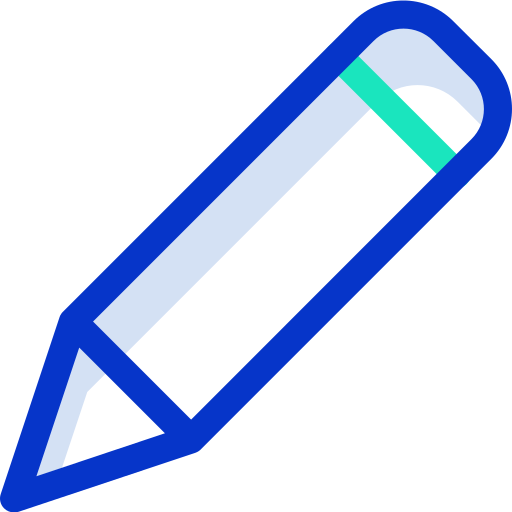
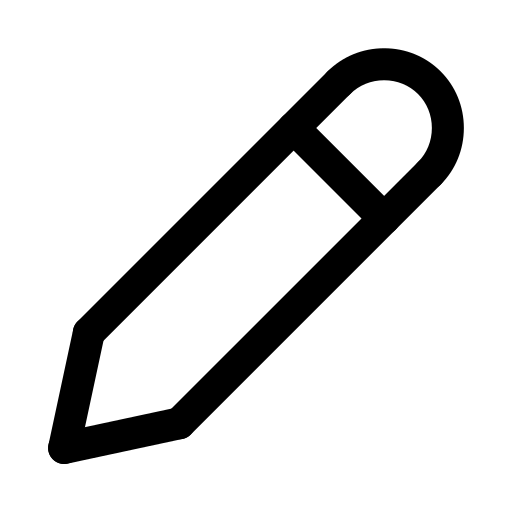
tambah tailwind, kelas di siswa dan ganti gambar

diff --git a/tailwind.config.js b/tailwind.config.js
@@ -1,0 +1,12 @@
+/** @type {import('tailwindcss').Config} */
+module.exports = {
+  content: [
+  ],
+  theme: {
+    extend: {
+      
+    },
+  },
+  plugins: [],
+}
+

diff --git a/admin/siswa.php b/admin/siswa.php
@@ -16,7 +16,34 @@ require '../config/admin.php';
 
 <body>
     <?php include 'menu.html'; ?>
+    <div class="bg-slate-50 grid grid-cols-1 lg:grid-cols-4 ">
+        <?php
+            $kelas = $konek ->query("SELECT * FROM kelas");
+            $data_kelas_array = [];
+            while($data_kelas = $kelas ->fetch_assoc()) {
+                $data_kelas_array[] = $data_kelas;?>
+                <div class="bg-white shadow-md p-3 m-3 rounded-lg">
+                    <p class="font-bold">KELAS <?= $data_kelas['kelas']?></p>
+                    <hr>
+                    <p><?php  $wali = $konek ->query("SELECT nama FROM staff WHERE id_kelas = $data_kelas[id_kelas]") ->fetch_assoc(); if($wali){echo "Wali : ".$wali['nama'];}else {echo "";} ?></p>
 
+                </div>
+
+            <?php 
+            }?>
+        
+        <div class="bg-white shadow-md p-3 m-3 rounded-lg lg:col-span-2">Daftar Kelas
+            <?php
+             foreach ($data_kelas_array as $data_kelas) { ?>
+                <div class="flex"><?=$data_kelas['kelas']?>
+                <a href="#"><img src="../image/pensil.png"> &nbsp;edit</a>
+                <a href="#"> &nbsp;hapus</a>
+                </div>
+            <?php
+            }
+            ?>
+        </div>
+    </div>
 </body>
 
 </html>
